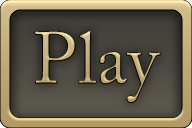
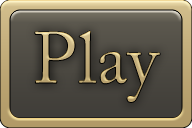
Animação adicionada para o botão Play

Changed region(s): [[0.0312, 0.0625, 0.9688, 0.5938]]

diff --git a/Space Shooter/src/menu/menu.c b/Space Shooter/src/menu/menu.c
@@ -1,22 +1,54 @@
+#include <stdlib.h>
 #include "menu.h"
 
-void menu_click(SDL_Event *evento, int *loop);
+void menu_click_pressionado(SDL_Event *evento, SDL_Texture *textura[], Menu **menu, int *loop);
+void menu_click_solto(SDL_Event *evento, int *loop);
 
-void menu_tela(SDL_Renderer *tela, SDL_Texture *textura[]) {
+int menu_inicializar(Menu **menu, SDL_Texture *textura[]) {
+    *menu = malloc(sizeof **menu);
+
+    if (*menu == NULL) return -1;
+
+    (*menu)->play = textura[TEXTURA_PLAY];
+
+    return 0;
+}
+
+void menu_liberar(Menu **menu) {
+    free(*menu);
+}
+
+void menu_tela(SDL_Renderer *tela, SDL_Texture *textura[], Menu **menu) {
     SDL_Rect fundo = {MENU_FUNDO_X, MENU_FUNDO_Y, MENU_FUNDO_LARGURA, MENU_FUNDO_ALTURA};
     SDL_RenderCopy(tela, textura[TEXTURA_BACKGROUND], NULL, &fundo);
 
     SDL_Rect play = {MENU_PLAY_X, MENU_PLAY_Y, MENU_PLAY_LARGURA, MENU_PLAY_ALTURA};
-    SDL_RenderCopy(tela, textura[TEXTURA_PLAY], NULL, &play);
+    SDL_RenderCopy(tela, (*menu)->play, NULL, &play);
 }
 
-void menu_evento(SDL_Event *evento, int *loop) {
+void menu_evento(SDL_Event *evento, SDL_Texture *textura[], Menu **menu, int *loop) {
     if ((*evento).type == SDL_MOUSEBUTTONDOWN) {
-        menu_click(evento, loop);
+        menu_click_pressionado(evento, textura, menu, loop);
+    }
+
+    if ((*evento).type == SDL_MOUSEBUTTONUP) {
+        (*menu)->play = textura[TEXTURA_PLAY];
+        menu_click_solto(evento, loop);
     }
 }
 
-void menu_click(SDL_Event *evento, int *loop) {
+void menu_click_pressionado(SDL_Event *evento, SDL_Texture *textura[], Menu **menu, int *loop) {
+    int coluna_mouse = (*evento).motion.x;
+    int linha_mouse = (*evento).motion.y;
+
+    if (coluna_mouse > MENU_PLAY_X && coluna_mouse < (MENU_PLAY_X + MENU_PLAY_LARGURA)) {
+        if (linha_mouse > MENU_PLAY_Y && linha_mouse < (MENU_PLAY_Y + MENU_PLAY_ALTURA)) {
+            (*menu)->play = textura[TEXTURA_PLAY_PRESSIONADO];
+        }
+    }
+}
+
+void menu_click_solto(SDL_Event *evento, int *loop) {
     int coluna_mouse = (*evento).motion.x;
     int linha_mouse = (*evento).motion.y;
 

diff --git a/Space Shooter/src/main.c b/Space Shooter/src/main.c
@@ -6,6 +6,7 @@
 int main(int argc, char *args[]) {
     int loop = LOOP_MENU;
 
+    Menu *menu = NULL;
     Jogo *jogo = NULL;
 
     SDL_Window *janela = NULL;
@@ -62,13 +63,25 @@ int main(int argc, char *args[]) {
         return 4;
     }
 
-    if (jogo_inicializar(&jogo, textura)) {
-        puts("Erro ao inicializar o jogo!");
+    if (menu_inicializar(&menu, textura)) {
+        puts("Erro ao inicializar menu!");
         liberar_texturas(textura);
         SDL_DestroyRenderer(tela);
         SDL_DestroyWindow(janela);
         IMG_Quit();
         SDL_Quit();
+        return 5;
+    }
+
+    if (jogo_inicializar(&jogo, textura)) {
+        puts("Erro ao inicializar o menu!");
+        menu_liberar(&menu);
+        liberar_texturas(textura);
+        SDL_DestroyRenderer(tela);
+        SDL_DestroyWindow(janela);
+        IMG_Quit();
+        SDL_Quit();
+        return 6;
     }
 
     while (loop) {
@@ -77,12 +90,12 @@ int main(int argc, char *args[]) {
                 loop = LOOP_SAIR;
             }
 
-            if (loop == LOOP_JOGO) {
-                jogo_evento(&evento, &jogo);
+            if (loop == LOOP_MENU) {
+                menu_evento(&evento, textura, &menu, &loop);
             }
 
-            if (loop == LOOP_MENU) {
-                menu_evento(&evento, &loop);
+            if (loop == LOOP_JOGO) {
+                jogo_evento(&evento, &jogo);
             }
         }
 
@@ -91,7 +104,7 @@ int main(int argc, char *args[]) {
 
         switch (loop) {
             case LOOP_MENU:
-                menu_tela(tela, textura);
+                menu_tela(tela, textura, &menu);
             break;
 
             case LOOP_JOGO:
@@ -105,6 +118,7 @@ int main(int argc, char *args[]) {
     }
 
     jogo_liberar(&jogo);
+    menu_liberar(&menu);
     liberar_texturas(textura);
     SDL_DestroyRenderer(tela);
     SDL_DestroyWindow(janela);

diff --git a/Space Shooter/src/menu/menu.h b/Space Shooter/src/menu/menu.h
@@ -12,8 +12,17 @@
 #define MENU_PLAY_Y 150
 #define MENU_PLAY_LARGURA 192
 #define MENU_PLAY_ALTURA 128
+#define MENU_PLAY_SOLTO 0
+#define MENU_PLAY_PRESSIONADO 1
 
-void menu_tela(SDL_Renderer *tela, SDL_Texture *textura[]);
-void menu_evento(SDL_Event *evento, int *loop);
+struct Menu {
+    SDL_Texture *play;
+};
+typedef struct Menu Menu;
+
+int menu_inicializar(Menu **menu, SDL_Texture *textura[]);
+void menu_liberar(Menu **menu);
+void menu_tela(SDL_Renderer *tela, SDL_Texture *textura[], Menu **menu);
+void menu_evento(SDL_Event *evento, SDL_Texture *textura[], Menu **menu, int *loop);
 
 #endif

diff --git a/Space Shooter/src/space_shooter.h b/Space Shooter/src/space_shooter.h
@@ -10,20 +10,22 @@
 #define JANELA_DELAY 30
 #define JANELA_COR 0, 0, 0, 255
 
-#define TEXTURA_QUANTIDADE 4
+#define TEXTURA_QUANTIDADE 5
 
 enum Textura {
     TEXTURA_SPRITE_PERSONAGEM_1,
     TEXTURA_SPRITE_PERSONAGEM_2,
     TEXTURA_BACKGROUND,
-    TEXTURA_PLAY
+    TEXTURA_PLAY,
+    TEXTURA_PLAY_PRESSIONADO,
 };
 
 static char *textura_arquivo[TEXTURA_QUANTIDADE] = {
     "../imagem/personagem1.png",
     "../imagem/personagem2.png",
     "../imagem/space.png",
-    "../imagem/play.png"
+    "../imagem/play.png",
+    "../imagem/play_pressionado.png"
 };
 
 enum Loop {
